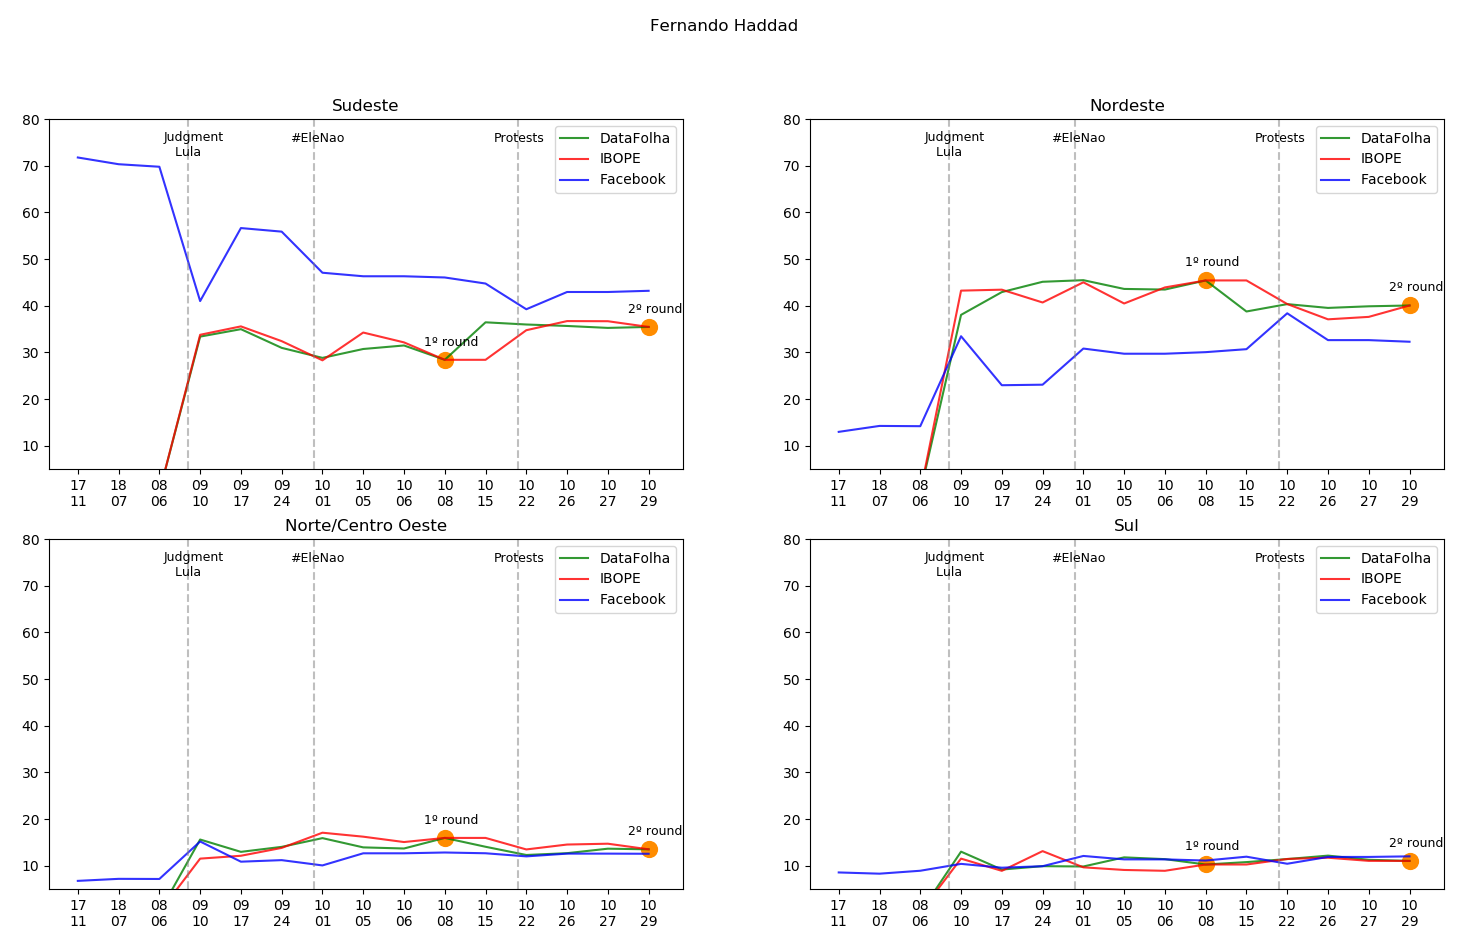
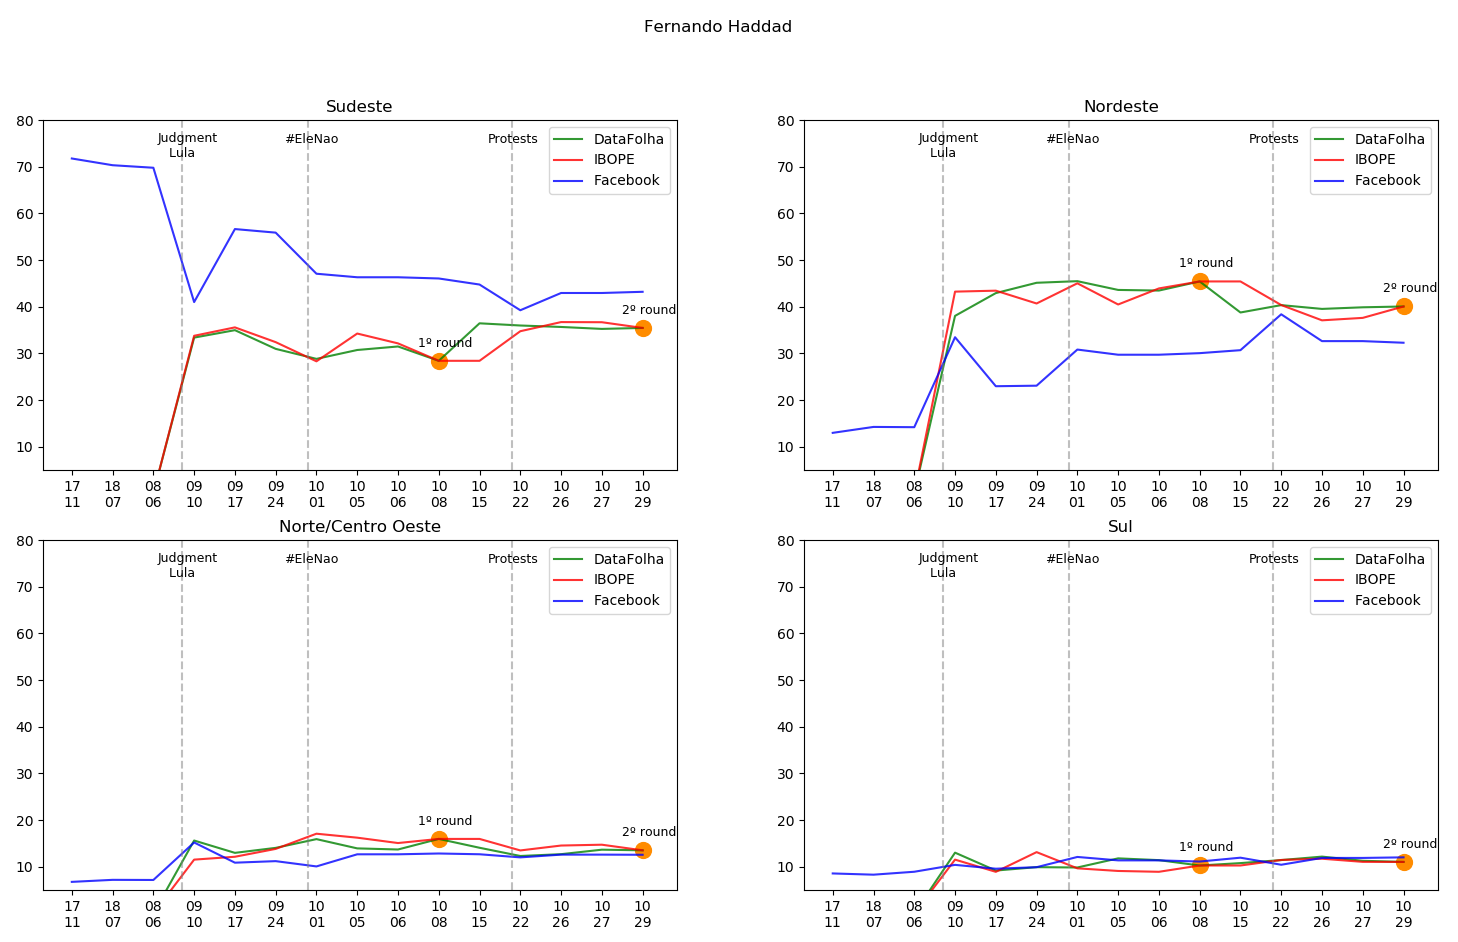
correlacao

diff --git a/Graphics/Code/graphic.py b/Graphics/Code/graphic.py
@@ -2,6 +2,7 @@ from matplotlib.ticker import FuncFormatter
 import read_elections as election
 import read_facebook as facebook
 import matplotlib.pyplot as plt
+from scipy.stats import spearmanr
 import pandas as pd
 import models
 import os
@@ -30,6 +31,22 @@ dic_lines = {
 def formatter_millions(x):
     return '%1.0f' % (x/1000000)
 
+def calculate_correlattion(ibope, dfolha, facebook):
+    # del ibope [9]
+    # del ibope [14]
+    # del dfolha [9]
+    # del dfolha [14]
+    v = []
+
+    corrI, p_valueI = spearmanr(ibope, facebook)
+    corrF, p_valueF = spearmanr(dfolha, facebook)
+    v.append(corrI)
+    v.append(corrF)
+    v.append(p_valueI)
+    v.append(p_valueF)
+
+    return v
+
 def plot_graph(name, data_frame, line, col, range_ini, range_fim, count_x, firstitle, set_subtitle, all_subtitle, set_result, figsizeX, figsizeY, hspace=0):    
 
     fig = plt.figure(figsize=(figsizeX, figsizeY))    
@@ -39,7 +56,9 @@ def plot_graph(name, data_frame, line, col, range_ini, range_fim, count_x, first
     maxProtesto2 = 0
     maxElenao = 0
     maxLula = 0
-    num = 1    
+    num = 1 
+
+    vLabels = []
 
     for d in data_frame:
         G = fig.add_subplot(line, col, num)
@@ -58,7 +77,8 @@ def plot_graph(name, data_frame, line, col, range_ini, range_fim, count_x, first
                 # , marker='o'
 
             plt.plot('x', g, data=d, color=dic_color[label[2]], ls='-', alpha=0.8, label=label[2])
-            
+            vLabels.append(g)
+
             # Encontrando ponto gráfico
             if(maxProtesto2 < d[g].values[11]):
                 maxProtesto2 = d[g].values[11]
@@ -66,7 +86,7 @@ def plot_graph(name, data_frame, line, col, range_ini, range_fim, count_x, first
                 maxElenao = d[g].values[6]
             if(maxLula < d[g].values[3]):
                 maxLula = d[g].values[3]
-
+            
             if(set_result_aux == True):     
                 if(d[g].values[9] > 0):
                     plt.scatter(9, d[g].values[9], color='darkorange', s=130, alpha=1) 
@@ -86,8 +106,10 @@ def plot_graph(name, data_frame, line, col, range_ini, range_fim, count_x, first
             else:               
                 plt.text(x = dic["x"] - dic["negative"], y =  range_fim - 5, s = dic["text"], size = 9)  
 
+        result_corr = calculate_correlattion(d[vLabels[0]].values, d[vLabels[1]].values, d[vLabels[2]].values) 
         plt.xticks(range(0, count_x), xticks)   
-        plt.legend()            
+        plt.legend()        
+           
         count_subtitle += 1
 
         if(count_subtitle == col):
@@ -98,6 +120,7 @@ def plot_graph(name, data_frame, line, col, range_ini, range_fim, count_x, first
         set_result_aux = True
         maxProtesto2 = 0
         maxElenao = 0
+        vLabels = []
         maxLula = 0
         num += 1
     
@@ -326,11 +349,11 @@ def plot_region():
     })]
 
     count_x = len(models.data_reader.candidates[i_bolsonaro].facebook_sul) 
-    plot_graph("region_bolsonaro.png", data_frame_bolsonaro, 2, 2, 5, 80, count_x, "Jair Bolsonaro", False, True, True, 18, 10)
+    plot_graph("region_bolsonaro.png", data_frame_bolsonaro, 2, 2, 5, 70, count_x, "Jair Bolsonaro", False, True, True, 18, 10)
     plot_graph("region_haddad.png", data_frame_haddad, 2, 2, 5, 80, count_x, "Fernando Haddad", False, True, True, 18, 10)
-    plot_graph("region_lula.png", data_frame_lula, 2, 2, 5, 80, count_x, "Lula", False, True, True, 18, 10)
-    plot_graph("region_ciro.png", data_frame_ciro, 2, 2, 5, 80, count_x, "Ciro Gomes", False, True, True, 18, 10)
-    plot_graph("region_marina.png", data_frame_marina, 2, 2, 5, 80, count_x, "Marina Silva", False, True, True, 18, 10)
+    plot_graph("region_lula.png", data_frame_lula, 2, 2, 5, 60, count_x, "Lula", False, True, True, 18, 10)
+    plot_graph("region_ciro.png", data_frame_ciro, 2, 2, 5, 60, count_x, "Ciro Gomes", False, True, True, 18, 10)
+    plot_graph("region_marina.png", data_frame_marina, 2, 2, 5, 70, count_x, "Marina Silva", False, True, True, 18, 10)
     plot_graph("region_alckmin.png", data_frame_alckmin, 2, 2, 5, 85, count_x, "Geraldo Alckmin", False, True, True, 18, 10)
 
 def plot_like():

diff --git a/Graphics/Code/main.py b/Graphics/Code/main.py
@@ -11,13 +11,12 @@ def main():
     loadJson()
     # Plotando Gender
     # graphic.plot_gender()
-    # graphic.plot_region()
+    graphic.plot_region()
     # graphic.plot_age()
     # graphic.plot_education()
-    
+
     # graphic.plot_like()
     # graphic.talking_about()
 
 if __name__ == "__main__":
     main()
-
